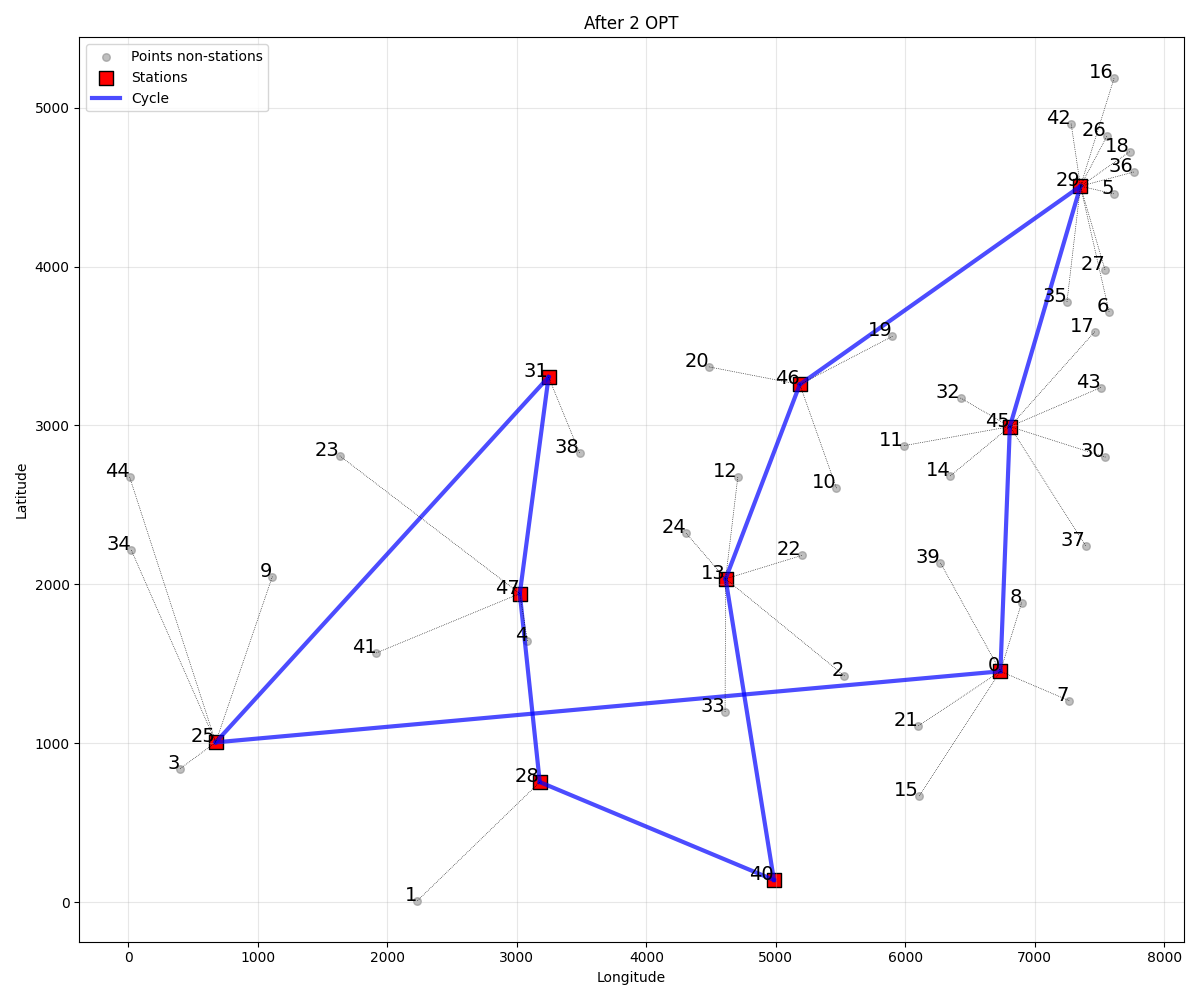
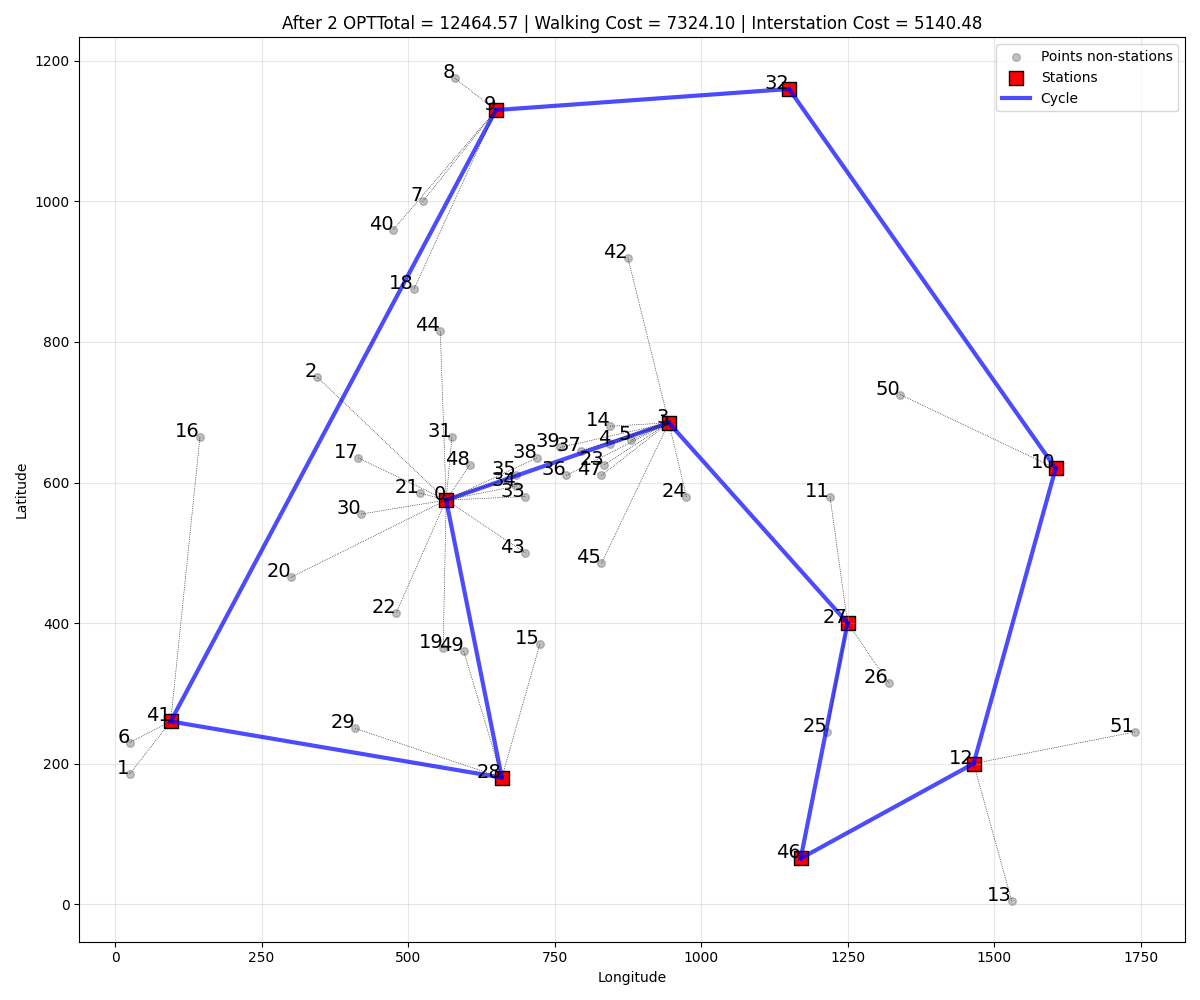
metaheuristic

diff --git a/src/visualization.py b/src/visualization.py
@@ -1,7 +1,9 @@
 import matplotlib.pyplot as plt
+import os
+import numpy as np
 
+def plot_points(coordinates, title):
 
-def plot_points(coordinates, title="Original Problem"):
 
     plt.figure(figsize=(10, 8))
     plt.scatter(coordinates[:, 0], coordinates[:, 1], c='blue', s=150, alpha=0.7,  marker='x', )
@@ -10,7 +12,7 @@ def plot_points(coordinates, title="Original Problem"):
         x = point[0]
         y = point[1]
         plt.text(x, y, str(i), fontsize=14, ha='right')
-    
+    title = "Original Problem " + title
     plt.title(title)
     plt.xlabel("Longitude")
     plt.ylabel("Latitude")
@@ -19,11 +21,10 @@ def plot_points(coordinates, title="Original Problem"):
     plt.savefig(f"results/{title.replace(' ', '_')}.png")
     plt.show()
 
-
-def plot_solution(coordinates, stations, path, assignments, title="Solution"):
+def plot_solution(coordinates, stations, path, assignments, title="Solution", walking_cost=0, inter_station_cost=0):
 
     plt.figure(figsize=(12, 10))
-    
+
     for i, point in enumerate(coordinates):
         x = point[0]
         y = point[1]
@@ -33,7 +34,7 @@ def plot_solution(coordinates, stations, path, assignments, title="Solution"):
     all_indices = list(range(len(coordinates)))
     non_stations = [i for i in all_indices if i not in stations]
     
-    # Points non-stations
+    # Points nonn stations
     plt.scatter(coordinates[non_stations, 0], coordinates[non_stations, 1], 
                 c='gray', s=30, alpha=0.5, label="Points non-stations")
     
@@ -58,7 +59,7 @@ def plot_solution(coordinates, stations, path, assignments, title="Solution"):
                          'k:', linewidth=0.5, alpha=1)
 
     
-    plt.title(title)
+    plt.title(title + f"Total = {(walking_cost+ inter_station_cost):.2f} | Walking Cost = {walking_cost:.2f} | Interstation Cost = {inter_station_cost:.2f}")
     plt.xlabel("Longitude")
     plt.ylabel("Latitude")
     plt.legend()
@@ -66,3 +67,66 @@ def plot_solution(coordinates, stations, path, assignments, title="Solution"):
     plt.tight_layout()
     plt.savefig(f"results/{title.replace(' ', '_')}.png")
     plt.show()
+
+
+
+def plot_points_with_rectangles(coordinates, p, title):
+
+    plt.figure(figsize=(12, 10))
+    plt.scatter(coordinates[:, 0], coordinates[:, 1],  
+                c='blue', s=100, alpha=0.7, marker='o', label="Points")
+    
+    for i, point in enumerate(coordinates):
+        x, y = point[0], point[1]
+        plt.text(x, y, str(i), fontsize=9, ha='right', va='bottom')
+    
+    x_min, x_max = coordinates[:, 0].min(), coordinates[:, 0].max()
+    y_min, y_max = coordinates[:, 1].min(), coordinates[:, 1].max()
+    
+    q = int(np.ceil(np.sqrt(p)))
+    rectangles_info = []  
+    
+    for i in range(q):
+        for j in range(q):
+            rect_x_min = x_min + i * (x_max - x_min) / q
+            rect_x_max = x_min + (i + 1) * (x_max - x_min) / q
+            rect_y_min = y_min + j * (y_max - y_min) / q
+            rect_y_max = y_min + (j + 1) * (y_max - y_min) / q
+            center_x = x_min + (i + 0.5) * (x_max - x_min) / q
+            center_y = y_min + (j + 0.5) * (y_max - y_min) / q
+            rect_info = {
+                'id': (i, j),
+                'bounds': (rect_x_min, rect_x_max, rect_y_min, rect_y_max),
+                'center': (center_x, center_y),
+                'color': plt.cm.tab20((i * q + j) / (q * q))
+            }
+            rectangles_info.append(rect_info)
+            
+            rect_color = rect_info['color']
+            rect_alpha = 0.3
+            
+            rect = plt.Rectangle(
+                (rect_x_min, rect_y_min),
+                rect_x_max - rect_x_min,
+                rect_y_max - rect_y_min,
+                linewidth=1.5,
+                edgecolor=rect_color,
+                facecolor=rect_color,
+                alpha=rect_alpha,
+                linestyle='--'
+            )
+            plt.gca().add_patch(rect)
+            
+            plt.scatter([center_x], [center_y], 
+                       c=[rect_color], s=200, marker='+', linewidths=2,
+                       label=f"Centre rectangle ({i},{j})" if i == 0 and j == 0 else "")
+    
+    
+    plt.title(f"{title}\nDivision en {q}×{q} rectangles, p={p}")
+    plt.xlabel("Longitude")
+    plt.ylabel("Latitude")
+    plt.tight_layout()
+    filename = f"results/rectangles_p{p}_{title.replace(' ', '_')}.png"
+    plt.savefig(filename, dpi=150)    
+    plt.show()
+    return rectangles_info

diff --git a/src/meta.py b/src/meta.py
@@ -1,0 +1,81 @@
+import random
+import math
+from heuristics import greedy_p_median, nearest_neighbor_tsp, two_opt
+import random
+
+
+def evaluate_solution(stations, coordinates, distances, n):
+    assignments = [0]*n
+    cost_assign = 0
+
+    for i in range(n):
+        if i in stations:
+            assignments[i] = i
+        else:
+            closest = min(stations, key=lambda s: distances[i][s])
+            assignments[i] = closest
+            cost_assign += distances[i][closest]
+
+    tsp = nearest_neighbor_tsp(stations, distances)
+    tsp = two_opt(tsp["path"], distances)
+
+    return {
+        "stations": stations,
+        "assignments": assignments,
+        "path": tsp["path"],
+        "cost": cost_assign + tsp["cost"]
+    }
+
+
+
+def neighbor(stations, n):
+    all_points = list(range(n))
+
+    s_out = random.choice(stations)
+    s_in = random.choice(list(set(all_points) - set(stations)))
+
+    new_stations = stations.copy()
+    new_stations.remove(s_out)
+    new_stations.append(s_in)
+
+    return new_stations
+
+
+def simulated_annealing(
+    initial_stations,
+    coordinates,
+    distances,
+    n,
+    T0=1000,
+    alpha=0.95,
+    iterations=100
+):
+    current = evaluate_solution(
+        initial_stations.copy(),
+        coordinates,
+        distances,
+        n
+    )
+
+    best = current
+    T = T0
+
+    while T > 1e-3:
+        for _ in range(iterations):
+
+            new_stations = neighbor(current["stations"], n)
+            candidate = evaluate_solution(
+                new_stations,
+                coordinates,
+                distances,
+                n
+            )
+            delta = candidate["cost"] - current["cost"]
+
+            if delta < 0 or random.random() < math.exp(-delta / T):
+                current = candidate
+
+                if current["cost"] < best["cost"]:
+                    best = current
+        T *= alpha
+    return best

diff --git a/src/heuristics.py b/src/heuristics.py
@@ -1,5 +1,6 @@
 import numpy as np
 from utils import euclidean_distance
+import time
 
 
 def greedy_p_median(coordinates, p, n, distances):
@@ -107,26 +108,35 @@ def nearest_neighbor_tsp(stations, distances):
 def two_opt(path, distances):
     n = len(path)
     improved = True
-    
+
     while improved:
         improved = False
-        for i in range(n - 1):
-            for j in range(i + 2, n - 1):
-                current = distances[path[i]][path[i+1]] + distances[path[j]][path[j+1]]                
-                new = distances[path[i]][path[j]] + distances[path[i+1]][path[j+1]]
-                
-                if new < current:
-                    path[i+1:j+1] = path[i+1:j+1][::-1]
-                    improved = True
-                    break
-    cost = 0
-    for index in range(len(path)-1):
-        current_station = path[index]
-        next_station = path[index+1]
-        cost+=distances[current_station][next_station]
-        
-    return {
-        "path":path,
-        "cost":cost
-    }
+        best_delta = 0
+        best_i, best_j = None, None
 
+        for i in range(n - 2):
+            for j in range(i + 2, n):
+                if i == 0 and j == n - 1:
+                    continue
+
+                a, b = path[i], path[i + 1]
+                c, d = path[j], path[(j + 1) % n]
+
+                delta = (
+                    distances[a][c] + distances[b][d]
+                    - distances[a][b] - distances[c][d]
+                )
+
+                if delta < best_delta:
+                    best_delta = delta
+                    best_i, best_j = i, j
+
+        if best_delta < 0:
+            path[best_i+1:best_j+1] = reversed(path[best_i+1:best_j+1])
+            improved = True
+
+    cost = sum(
+        distances[path[i]][path[(i+1) % n]] for i in range(n)
+    )
+
+    return {"path": path, "cost": cost}

diff --git a/src/data_loader.py b/src/data_loader.py
@@ -24,7 +24,7 @@ def load_tsp_file(path):
         return coordinates, distances, n
     
     except FileNotFoundError:
-        print(f"Error: File not found.")
+        print(f"Error File not found.")
         return None
     
     except Exception as e:
